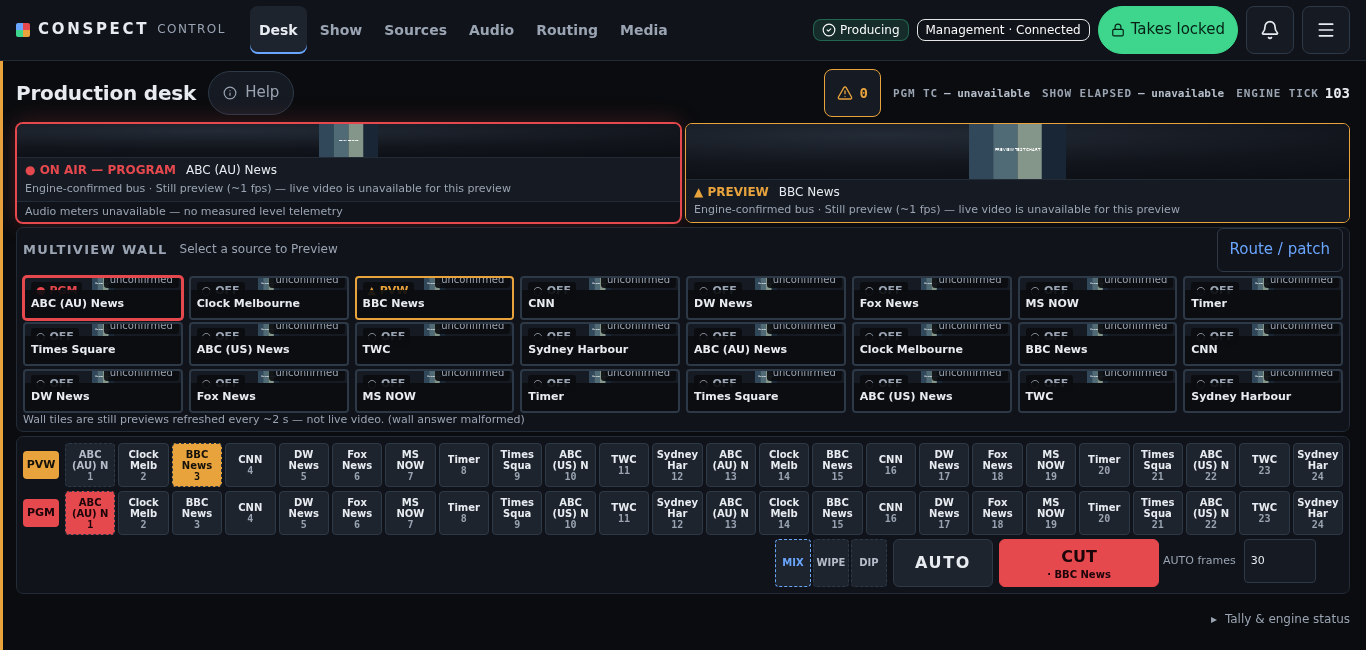
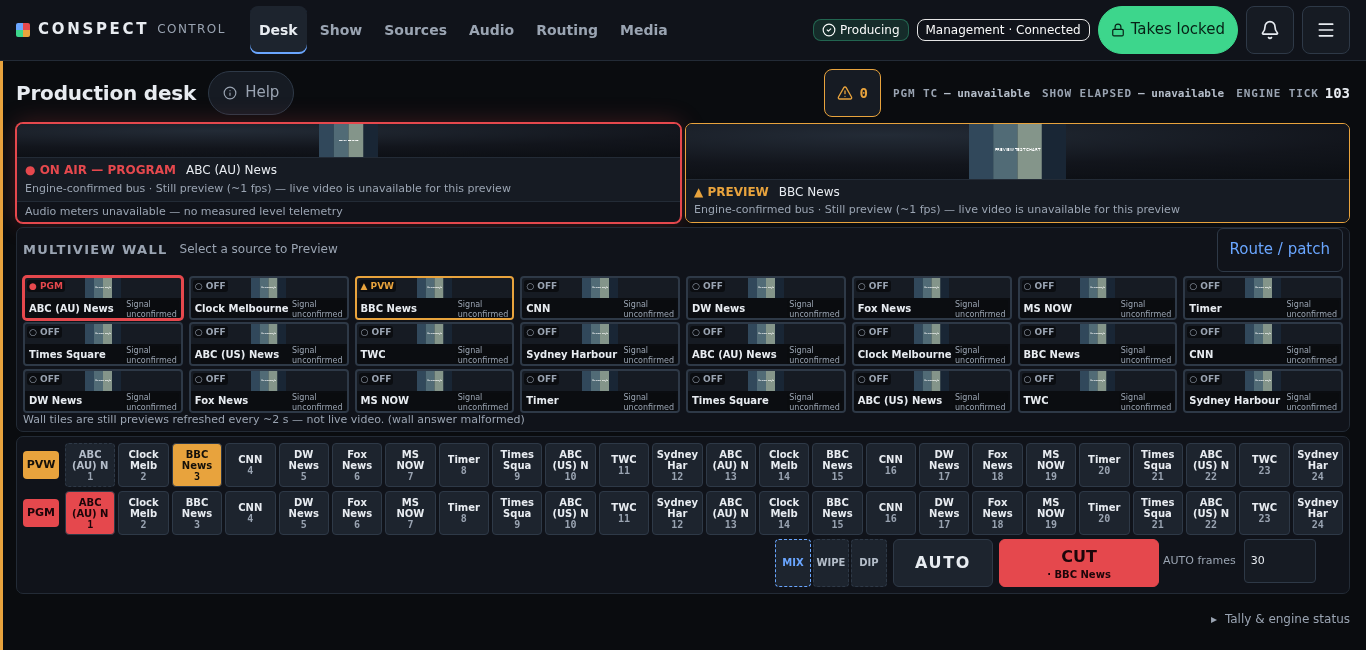
fix(web): keep dense laptop tally and signal labels visible

diff --git a/web/src/components/broadcast/ProductionDesk.tsx b/web/src/components/broadcast/ProductionDesk.tsx
@@ -207,7 +207,7 @@ function ProductionDeskBody(): JSX.Element {
       <PreviewMonitor program={false} source={name(state.data?.preview_source)} fresh={fresh && status === 'open'} />
       <section className="bd-wall"><div className="bd-wall-heading"><h2><Trans>Multiview wall</Trans></h2><span><Trans>Select a source to Preview</Trans></span><Link className="bd-route-link" to="/routing"><Trans>Route / patch</Trans></Link></div><div className="bd-wall-grid">{sources.data?.map((source) => { const keyReason = reason ?? busKeyReason('preview', source.id, state.data, demand.data?.get(source.id)?.phase); return <button type="button" className="bd-wall-tile" key={source.id} aria-disabled={disabled || keyReason !== undefined} aria-describedby={`desk-tally-${source.id} desk-signal-${source.id} desk-reason-${source.id}`} aria-label={t`Preview ${source.name}`} aria-pressed={tallyForSource(source.id, state.data, fresh && status === 'open') === 'preview'} title={keyReason} onClick={() => { if (!disabled && keyReason === undefined) request('select_preview', source.id); }} data-tile-state={tileForSource(tiles, source.id)?.state ?? 'unknown'} data-tally={tallyForSource(source.id, state.data, fresh && status === 'open')}><SourcePicture id={source.id} demand={demand.data?.get(source.id)} /><small id={`desk-tally-${source.id}`}>{tallyGlyph(tallyForSource(source.id, state.data, fresh && status === 'open'))}</small><b>{source.name}</b><span className="sr-only" id={`desk-reason-${source.id}`}>{keyReason}</span><span id={`desk-signal-${source.id}`}><TileLabel tile={tileForSource(tiles, source.id)} /></span></button>; })}</div><WallNote />{sources.isError || !sources.data?.length ? <p>{sources.isError ? t`Source catalog unavailable` : t`No source catalog available`}</p> : null}</section>
       <section className="bd-switcher"><h2><Trans>M/E 1 — Switcher</Trans></h2>
-        <div className="bd-buses">{(['preview', 'program'] as const).map((bus) => <div className={`bd-bus bd-bus-${bus}`} key={bus} role="group" aria-label={bus === 'program' ? t`PGM bus — direct taps always confirm` : t`PVW bus`}><b>{bus === 'program' ? 'PGM' : 'PVW'}</b><div>{sources.data?.map((source, index) => { const keyReason = reason ?? busKeyReason(bus, source.id, state.data, demand.data?.get(source.id)?.phase); return <button key={source.id} aria-label={source.name} disabled={disabled || keyReason !== undefined} data-key-reason={keyReason} title={keyReason ? `${source.name} — ${keyReason}` : source.name} aria-pressed={tallyForSource(source.id, state.data, fresh && status === 'open') === bus} onClick={() => { request(bus === 'program' ? 'select_program' : 'select_preview', source.id); }}><span className="bd-key-name">{(sources.data?.length ?? 0) > 12 ? source.name.slice(0, 10) : source.name}</span><i className="bd-idx" aria-hidden="true">{index + 1}</i></button>; })}{!sources.data?.length && <span><Trans>No sources available</Trans></span>}</div></div>)}</div>
+        <div className="bd-buses">{(['preview', 'program'] as const).map((bus) => <div className={`bd-bus bd-bus-${bus}`} key={bus} role="group" aria-label={bus === 'program' ? t`PGM bus — direct taps always confirm` : t`PVW bus`}><b>{bus === 'program' ? 'PGM' : 'PVW'}</b><div>{sources.data?.map((source, index) => { const keyReason = reason ?? busKeyReason(bus, source.id, state.data, demand.data?.get(source.id)?.phase); return <button key={source.id} aria-label={source.name} disabled={disabled || keyReason !== undefined} data-key-reason={keyReason} title={keyReason ? `${source.name} — ${keyReason}` : source.name} aria-pressed={tallyForSource(source.id, state.data, fresh && status === 'open') === bus} onClick={() => { request(bus === 'program' ? 'select_program' : 'select_preview', source.id); }}><span className="bd-key-name">{(sources.data?.length ?? 0) > 12 ? Array.from(source.name).slice(0, 10).join('') : source.name}</span><i className="bd-idx" aria-hidden="true">{index + 1}</i></button>; })}{!sources.data?.length && <span><Trans>No sources available</Trans></span>}</div></div>)}</div>
         <div className="bd-takes"><div className="bd-transitions" role="group" aria-label={t`Transition type`}><button disabled aria-pressed="true" title={t`MIX is the only supported transition`}>MIX</button><button disabled title={t`WIPE and DIP have no supported control contract`}>WIPE</button><button disabled title={t`WIPE and DIP have no supported control contract`}>DIP</button></div><button className="bd-auto" disabled={disabled || autoReason !== undefined} title={autoReason ? `AUTO — ${autoReason}` : t`AUTO mix over ${frames} frames`} onClick={() => { request('auto'); }}>AUTO</button><div className="bd-cutrow"><button className="bd-cut" disabled={disabled || sameBuses} title={sameBuses ? t`CUT — Preview and Program carry the same source` : undefined} aria-describedby="bd-cut-src" onClick={() => { request('cut'); }}>CUT<span aria-hidden="true" className="bd-cut-src"> · {name(state.data?.preview_source) ?? t`source unknown`}</span></button><span id="bd-cut-src" className="sr-only">{t`Cuts to`} {name(state.data?.preview_source) ?? t`unknown source`}</span></div></div>
         <div className="bd-more"><label><Trans>AUTO frames</Trans><input aria-label={t`Auto frames`} value={frames} type="number" min="1" max="1000" disabled={disabled} onChange={(e) => { setFrames(e.target.value); }} /></label></div>
       </section>

diff --git a/web/e2e/desk-viewport.spec.ts b/web/e2e/desk-viewport.spec.ts
@@ -29,6 +29,15 @@ for (const count of [12, 24]) {
         expect(box!.width).toBeGreaterThanOrEqual(44);
         expect(box!.height).toBeGreaterThanOrEqual(44);
       }
+      for (const tile of await tiles.all()) {
+        const parent = await tile.boundingBox();
+        for (const chip of await tile.locator('small, span[id^="desk-signal-"]').all()) {
+          const box = await chip.boundingBox();
+          expect(box!.y).toBeGreaterThanOrEqual(parent!.y);
+          expect(box!.y + box!.height).toBeLessThanOrEqual(parent!.y + parent!.height);
+          expect(await chip.evaluate((el) => el.scrollHeight <= el.clientHeight)).toBe(true);
+        }
+      }
       const boxes = await tiles.evaluateAll((els) => els.map((el) => { const r = el.getBoundingClientRect(); return { x: r.x, y: r.y, right: r.right, bottom: r.bottom }; }));
       for (let i = 0; i < boxes.length; i++) for (let j = i + 1; j < boxes.length; j++) {
         const a = boxes[i], b = boxes[j];

diff --git a/web/src/components/broadcast/broadcast-desk.css b/web/src/components/broadcast/broadcast-desk.css
@@ -499,3 +499,11 @@
  .production-desk .bd-wall-heading{min-height:32px}
  .production-desk .bd-route-link{min-height:44px}
 }
+.broadcast-shell .bd-bus button[aria-pressed=true]:disabled{border-style:solid}
+@media(min-width:1280px) and (min-height:600px) and (max-height:700px){
+ .production-desk[data-dense=true] .bd-wall-tile{grid-template-rows:minmax(0,1fr) 20px}
+ .production-desk[data-dense=true] .bd-wall-tile>b{font-size:10px;line-height:11px;padding:1px 4px}
+ .production-desk[data-dense=true] .bd-wall-tile>small{top:2px;left:2px;font-size:9px;line-height:12px;padding:0 2px}
+ .production-desk[data-dense=true] .bd-wall-tile>span:last-child{top:2px;bottom:auto;right:2px;font-size:8px;line-height:10px;padding:0 2px;max-width:65px}
+ .production-desk[data-dense=true] .bd-wall-tile .bd-source-picture{height:calc(100% - 20px)}
+}
